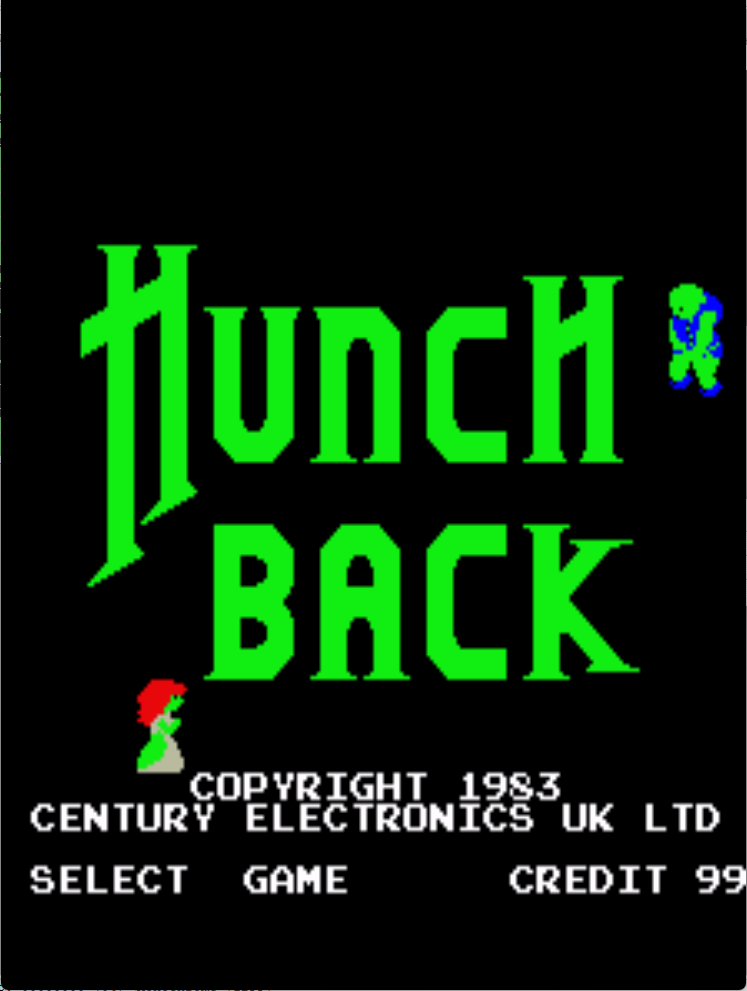
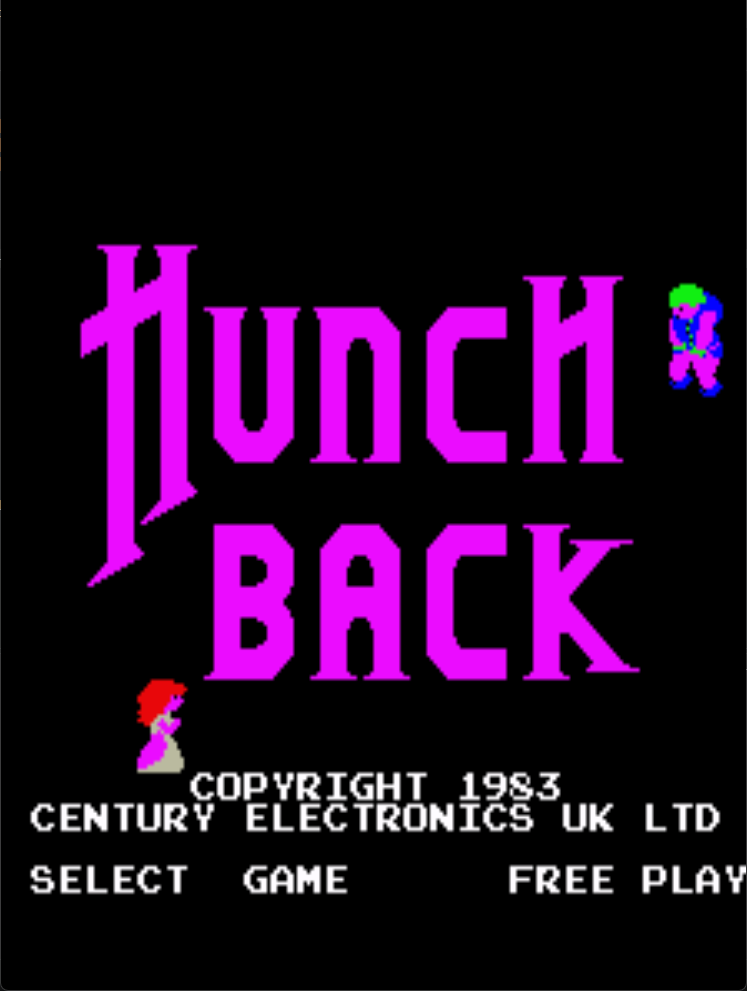
Changed "Credit 99" to "Free Play"

diff --git a/Century Electronics/Hunchback/README.md b/Century Electronics/Hunchback/README.md
@@ -11,13 +11,20 @@ This is a freeplay with attract mod for Hunchback, a conversion kit for DK PCBs.
 ### hunchbdk
 | **Patched ROM Name** | **Size** | **CRC-32 Checksum** | **IC Location** |
 |----------------------|----------|---------------------|-----------------|
-| hb.5a                |    4k    |       8F921638      |       5A        |
-| hb.5b                |    4k    |       B75F6BC6      |       5B        |
-| hb.5e                |    4k    |       8248418E      |       5E        |
+| hb.5a                |    4k    |       2E272C5F      |       5A        |
+| hb.5b                |    4k    |       2C19F0AC      |       5B        |
+| hb.5e                |    4k    |       F568427E      |       5E        |
 
 
 ## Modification Documentation
-To Do
+### Noteworthy Locations in Memory
+$1D98 - Credit Count
+
+### Modifications
+The methodology for the 2650 DK Kit Mods is very straight forward:
+- Return instead of printing the credit digits
+- Replace any load of the credit count with an immediate load of $99
+- Replace "Credit" text with "Free Play"
 
 ## Images
 ![Freeplay](Images/HBFP_1.png)
